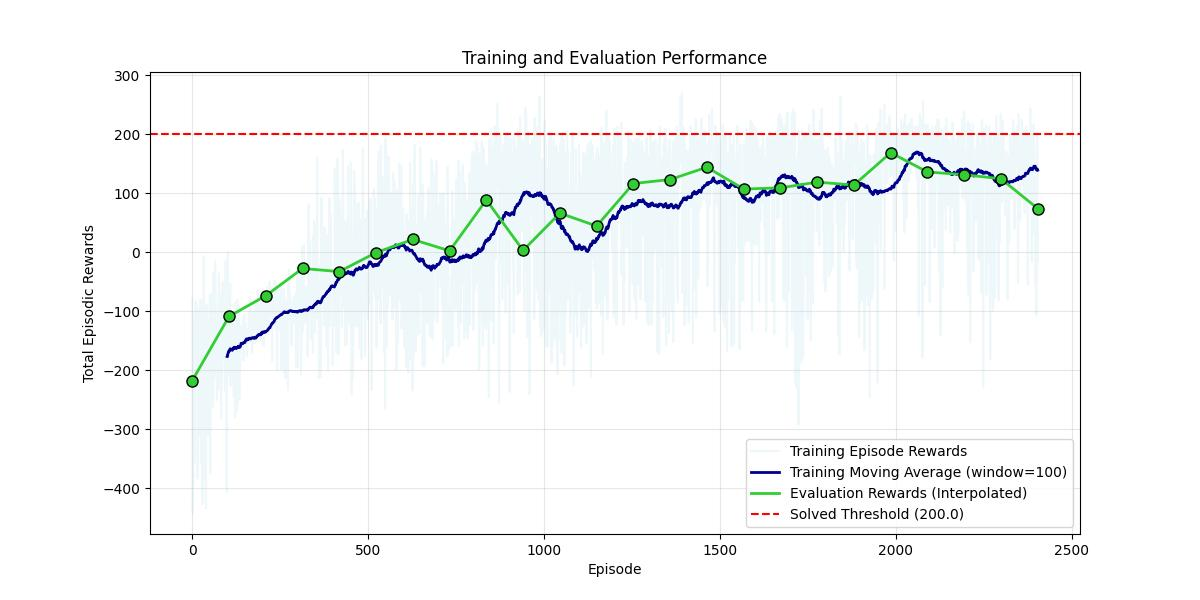
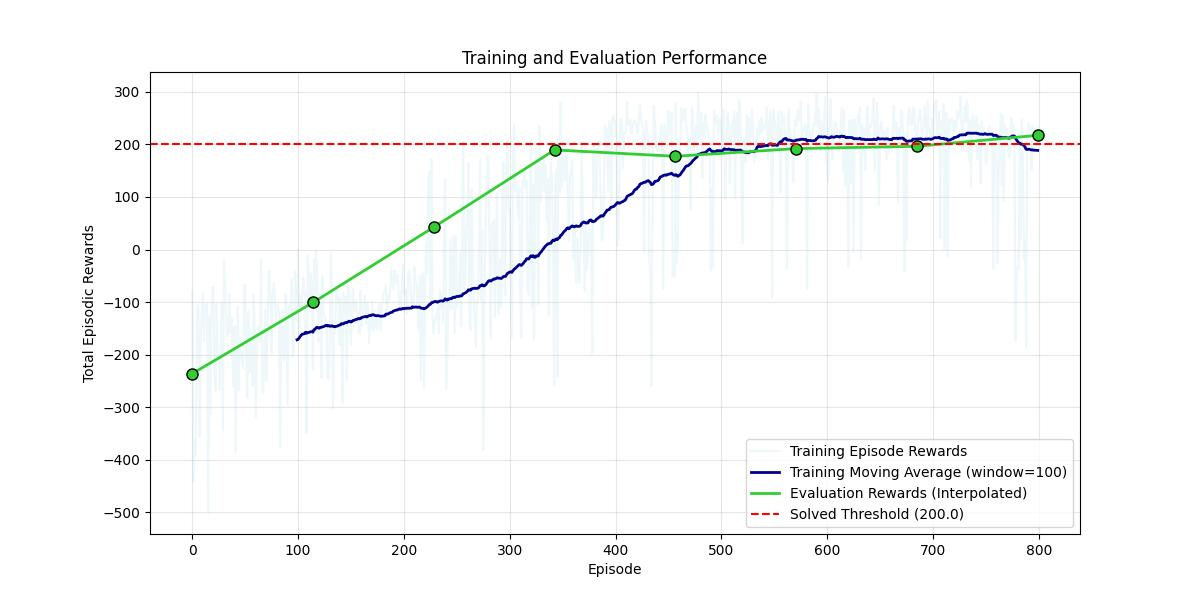
Fixing evaluate with auto fire

diff --git a/Lesson-3/DRL/1. DQN/agent.py b/Lesson-3/DRL/1. DQN/agent.py
@@ -112,7 +112,7 @@ class AgentDQN(DQNBase):
                 train_mean_reward = np.mean(self.train_rewards[-100:])
 
                 # Evaluate
-                if episode % self.evaluation_period == 0:
+                if global_step > self.learning_starts and episode % self.evaluation_period == 0:
                     val_mean_reward = self.evaluate()
                     self.val_rewards.append(val_mean_reward)
                     if val_mean_reward > self.solved_threshold:

diff --git a/Lesson-3/DRL/2. DDQN/agent.py b/Lesson-3/DRL/2. DDQN/agent.py
@@ -119,7 +119,7 @@ class AgentDQN(DQNBase):
                 train_mean_reward = np.mean(self.train_rewards[-100:])
 
                 # Evaluate
-                if episode % self.evaluation_period == 0:
+                if global_step > self.learning_starts and episode % self.evaluation_period == 0:
                     val_mean_reward = self.evaluate()
                     self.val_rewards.append(val_mean_reward)
                     if val_mean_reward > self.solved_threshold:

diff --git a/Lesson-3/DRL/3. PER/agent.py b/Lesson-3/DRL/3. PER/agent.py
@@ -149,7 +149,7 @@ class AgentDQN(DQNBase):
                 train_mean_reward = np.mean(self.train_rewards[-100:])
 
                 # Evaluate
-                if episode % self.evaluation_period == 0:
+                if global_step > self.learning_starts and episode % self.evaluation_period == 0:
                     val_mean_reward = self.evaluate()
                     self.val_rewards.append(val_mean_reward)
                     if val_mean_reward > self.solved_threshold:

diff --git a/Lesson-3/DRL/4. Dueling DQN/agent.py b/Lesson-3/DRL/4. Dueling DQN/agent.py
@@ -147,7 +147,7 @@ class AgentDQN(DQNBase):
                 train_mean_reward = np.mean(self.train_rewards[-100:])
 
                 # Evaluate
-                if episode % self.evaluation_period == 0:
+                if global_step > self.learning_starts and episode % self.evaluation_period == 0:
                     val_mean_reward = self.evaluate()
                     self.val_rewards.append(val_mean_reward)
                     if val_mean_reward > self.solved_threshold:

diff --git a/Lesson-3/DRL/5. Multi-step Return/agent.py b/Lesson-3/DRL/5. Multi-step Return/agent.py
@@ -167,7 +167,7 @@ class AgentDQN(DQNBase):
                 train_mean_reward = np.mean(self.train_rewards[-100:])
 
                 # Evaluate
-                if episode % self.evaluation_period == 0:
+                if global_step > self.learning_starts and episode % self.evaluation_period == 0:
                     val_mean_reward = self.evaluate()
                     self.val_rewards.append(val_mean_reward)
                     if val_mean_reward > self.solved_threshold:

diff --git a/Lesson-3/DRL/6. Distributional DQN/agent.py b/Lesson-3/DRL/6. Distributional DQN/agent.py
@@ -303,7 +303,7 @@ class AgentDQN(DQNBase):
                 train_mean_reward = np.mean(self.train_rewards[-100:])
 
                 # Evaluate
-                if episode % self.evaluation_period == 0:
+                if global_step > self.learning_starts and episode % self.evaluation_period == 0:
                     val_mean_reward = self.evaluate()
                     self.val_rewards.append(val_mean_reward)
                     if val_mean_reward > self.solved_threshold:

diff --git a/Lesson-3/DRL/7. Noisy Nets/agent.py b/Lesson-3/DRL/7. Noisy Nets/agent.py
@@ -217,7 +217,7 @@ class AgentDQN(DQNBase):
                 train_mean_reward = np.mean(self.train_rewards[-100:])
 
                 # Evaluate
-                if episode % self.evaluation_period == 0:
+                if global_step > self.learning_starts and episode % self.evaluation_period == 0:
                     # Disable noise for the evaluation
                     self.online_model.eval()
                     val_mean_reward = self.evaluate()

diff --git a/Lesson-3/DRL/8. RAINBOW/agent.py b/Lesson-3/DRL/8. RAINBOW/agent.py
@@ -337,7 +337,7 @@ class AgentDQN(DQNBase):
                 train_mean_reward = np.mean(self.train_rewards[-100:])
 
                 # Evaluate
-                if episode % self.evaluation_period == 0:
+                if global_step > self.learning_starts and episode % self.evaluation_period == 0:
                     # Disable noise for the evaluation
                     self.online_model.eval()
                     val_mean_reward = self.evaluate()

diff --git a/Lesson-3/DRL/core/DQNBase.py b/Lesson-3/DRL/core/DQNBase.py
@@ -256,6 +256,8 @@ class DQNBase(BaseAgent):
         rewards = []
         for _ in range(self.evaluation_episodes):
             state, _ = self.env.reset()
+            if self.is_atari:
+                state = self.auto_fire()
             done = False
             total_reward = 0
 
